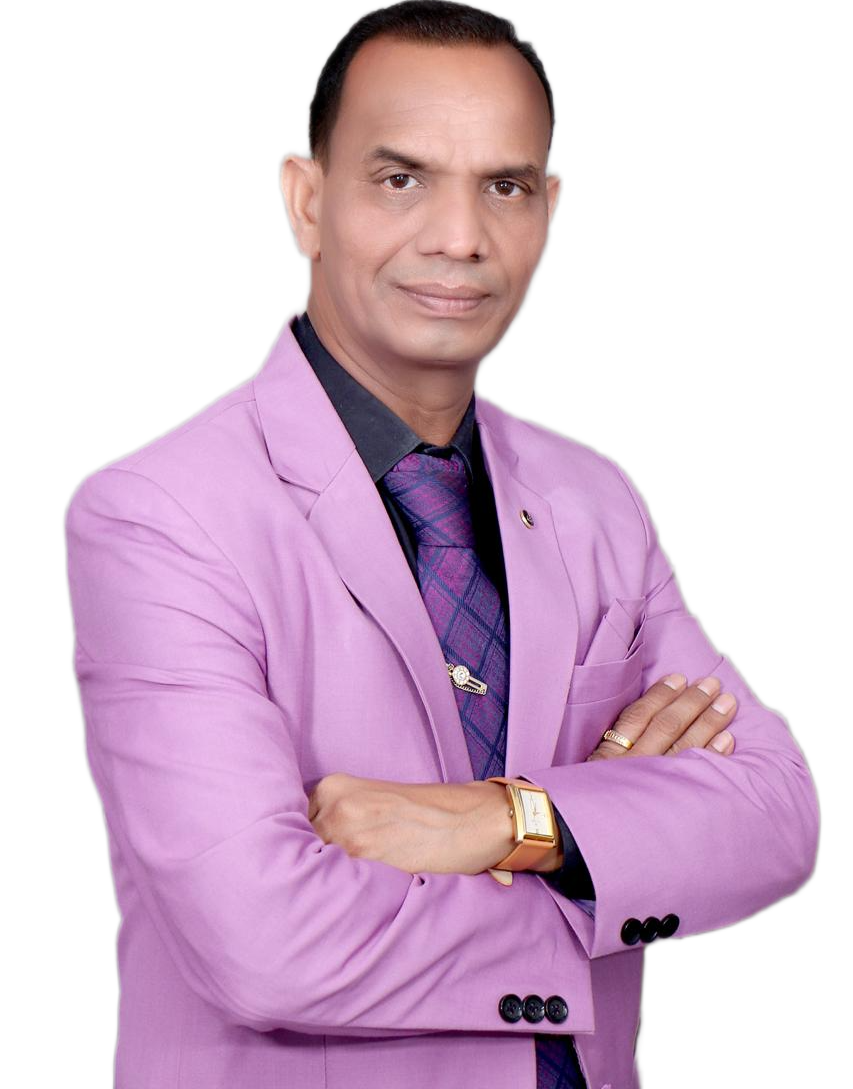
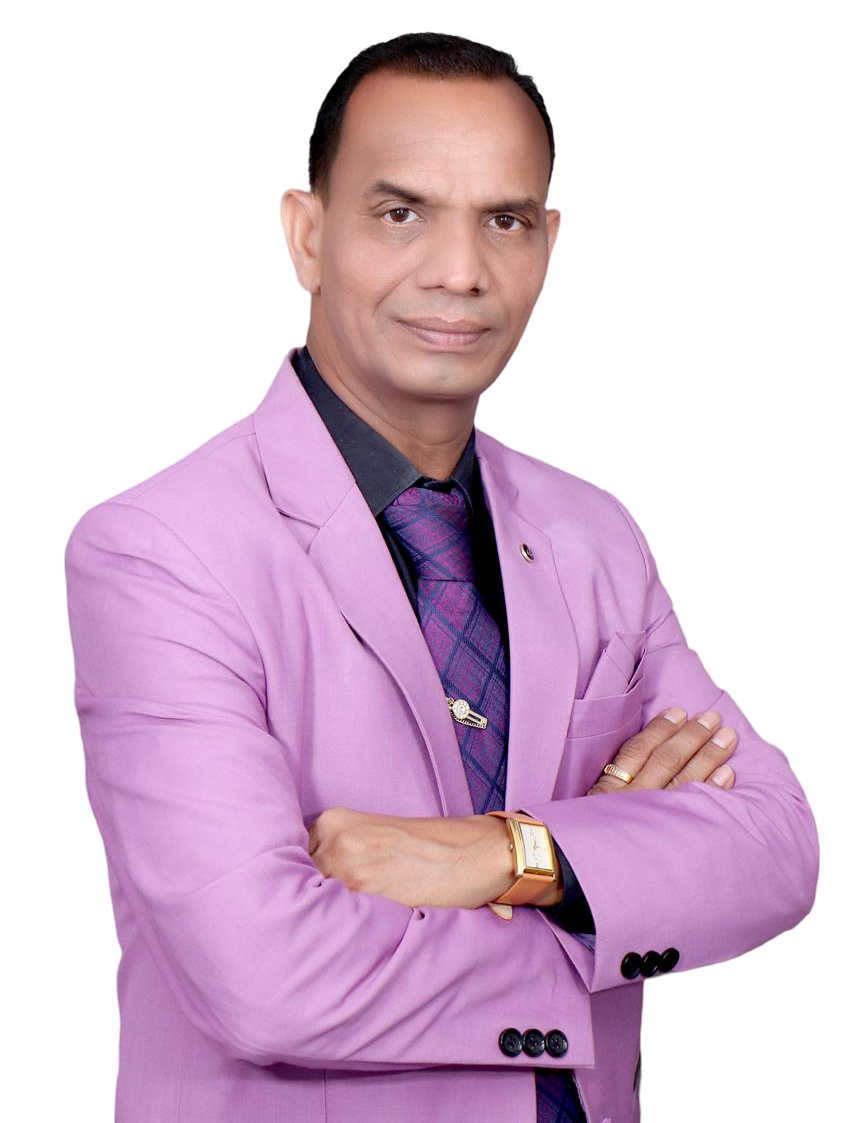
refactored : changed images in neel way section and about page owner image

diff --git a/app/components/sections/neelWaySection.tsx b/app/components/sections/neelWaySection.tsx
@@ -18,7 +18,7 @@ const NeelWaySection = ({ className }: { className?: string }) => {
         {/* Large Left Image */}
         <div className="relative overflow-hidden md:row-span-2 md:col-span-2">
           <Image
-            src="/images/family-1.jpg"
+            src="/images/storiesImage6.png"
             alt="Family Walking"
             fill
             className="object-cover rounded-md left-image"
@@ -31,7 +31,7 @@ const NeelWaySection = ({ className }: { className?: string }) => {
         {/* Top Right Image */}
         <div className="relative overflow-hidden">
           <Image
-            src="/images/family-2.jpg"
+            src="/images/storiesImage9.png"
             alt="Family Beach Fun"
             fill
             className="object-cover right-image rounded-md"
@@ -44,7 +44,7 @@ const NeelWaySection = ({ className }: { className?: string }) => {
         {/* Bottom Right Image (Text Right-Aligned) */}
         <div className="relative overflow-hidden">
           <Image
-            src="/images/family-3.jpg"
+            src="/images/storiesImage12.png"
             alt="Family Feeling"
             fill
             className="object-cover right-image rounded-md"
